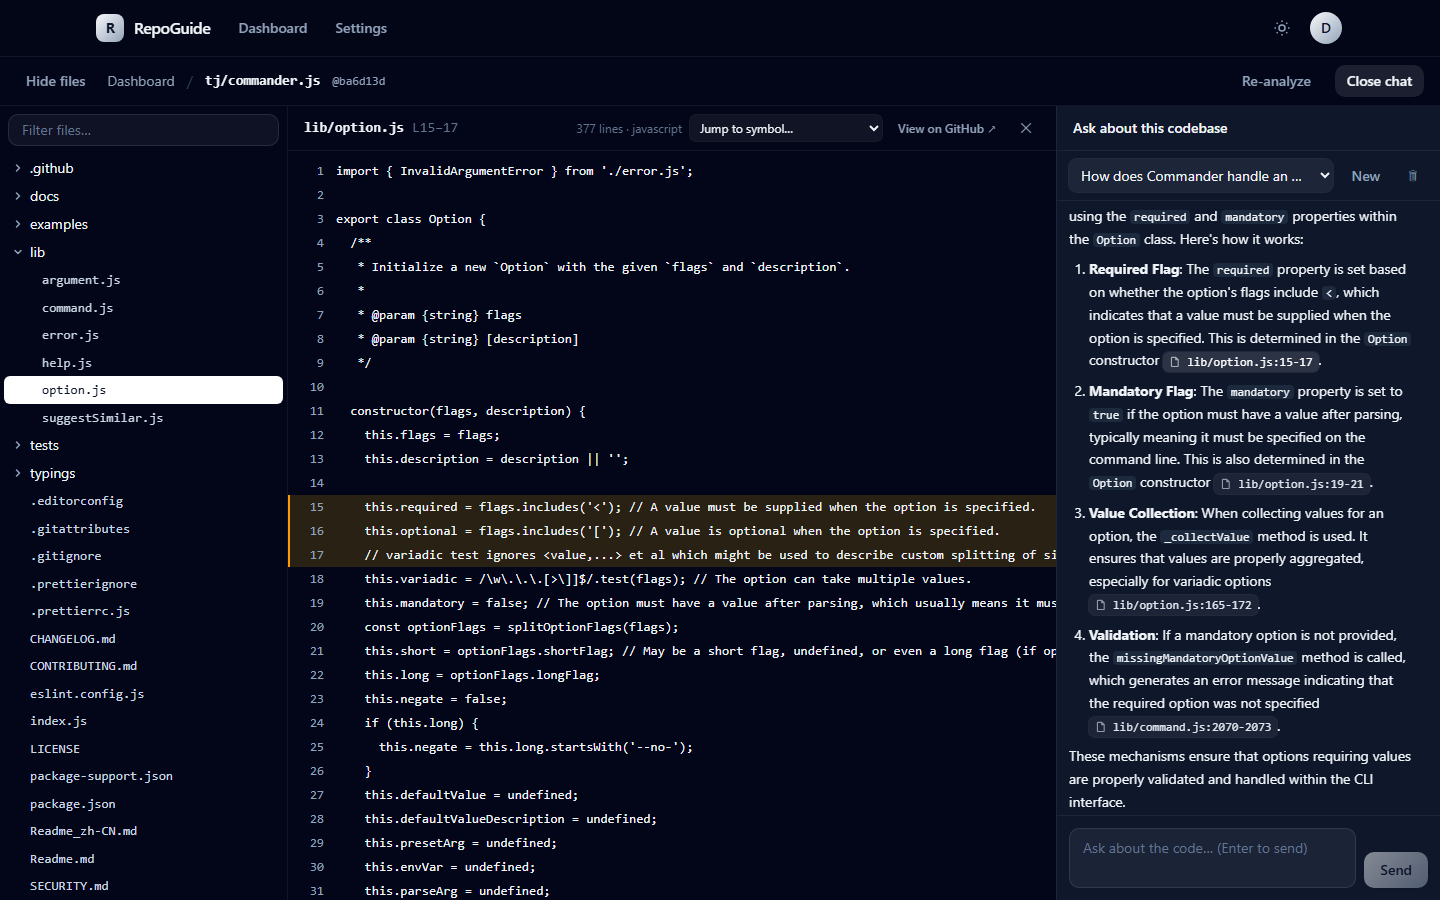
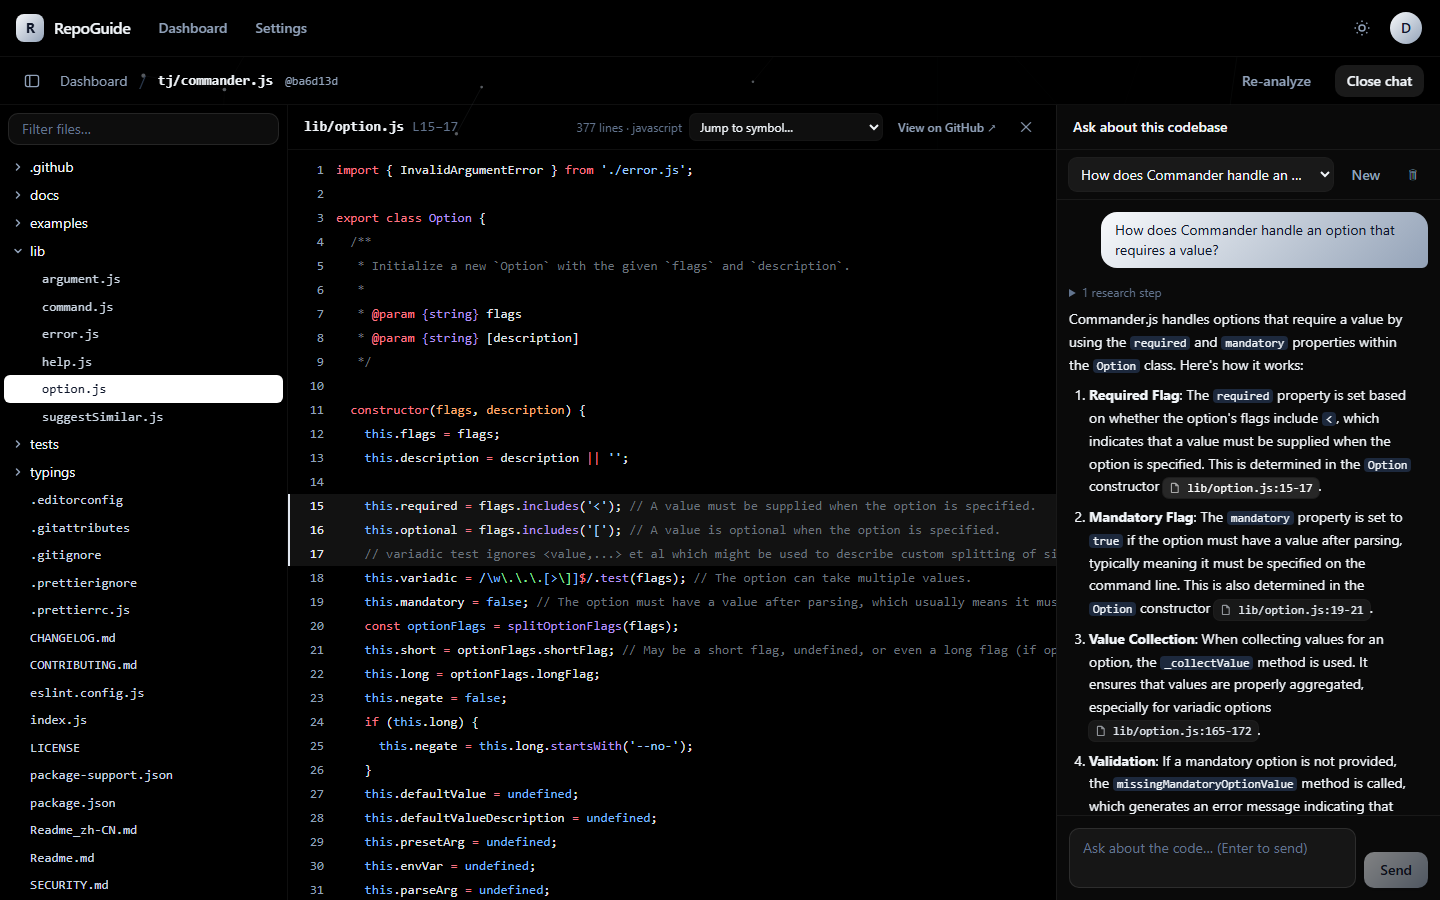
Re-shoot README screenshots in the current design; keep diagrams correctly sized with reduced motion

diff --git a/frontend/e2e/main-flow.spec.ts b/frontend/e2e/main-flow.spec.ts
@@ -1,5 +1,6 @@
 import { expect, test } from "@playwright/test";
 
+import { makeAnalysis } from "../src/test/fixtures";
 import { FakeApi } from "./fakeApi";
 
 test("analyse a repository, explore it, take the tour and ask a question", async ({ page }) => {
@@ -92,4 +93,44 @@ test("the chat is disabled while the model server is offline", async ({ page }) 
   const chat = page.getByRole("complementary", { name: "Chat" });
   await expect(chat.getByText(/The AI model is offline/)).toBeVisible();
   await expect(chat.getByLabel("Ask a question")).toBeDisabled();
+});
+
+test("the architecture diagram keeps its size with reduced motion", async ({ page }) => {
+  // Near-zero transition durations on SVG content once made Mermaid lay diagrams out ~10x
+  // too large, so the boxes shrank to a few pixels (needs a graph with edges and labels).
+  const api = new FakeApi();
+  api.repoStatus = "ready";
+  await api.install(page);
+  const analysis = makeAnalysis();
+  analysis.sections.architecture.data!.mermaid = [
+    "flowchart TD",
+    '    m_test["Test Suite"]',
+    '    m_util["Utility Functions"]',
+    '    m_app(["Application"])',
+    '    m_core["Core"]',
+    '    m_opts["Options"]',
+    '    m_help["Help"]',
+    '    m_test -->|"uses"| m_util',
+    '    m_test -.->|"100 imports"| m_app',
+    "    m_util -.-> m_app",
+    "    m_app -.-> m_core",
+    "    m_core -.-> m_opts",
+    "    m_core -.-> m_help",
+    "    m_app -.-> m_opts",
+    "    classDef entry fill:#e0e7ff,stroke:#4f46e5,color:#1e1b4b",
+    "    class m_app entry",
+  ].join("\n");
+  await page.route("**/api/repos/repo1/analysis", (route) =>
+    route.fulfill({ contentType: "application/json", body: JSON.stringify(analysis) }),
+  );
+  await page.emulateMedia({ reducedMotion: "reduce" });
+
+  await page.goto("/repos/repo1?tab=architecture");
+  const node = page
+    .getByRole("img", { name: /Architecture diagram/ })
+    .locator("svg g.node")
+    .first();
+  await expect(node).toBeVisible();
+  const box = await node.boundingBox();
+  expect(box?.width ?? 0).toBeGreaterThan(80); // ~128 px when laid out correctly, ~36 px when broken
 });

diff --git a/frontend/e2e/screenshots.spec.ts b/frontend/e2e/screenshots.spec.ts
@@ -22,7 +22,9 @@ const OUT = "../docs/screenshots";
 
 test.skip(!SNAPSHOT, "Set SNAPSHOT to a file written by `manage.py export_snapshot`.");
 test.describe.configure({ mode: "serial" });
-test.use({ viewport: { width: 1440, height: 900 }, colorScheme: "light" });
+// Reduced motion: the dot background is drawn once and the cursor trail and card tilt stay off,
+// so clicks made by the spec leave no trace in the images.
+test.use({ viewport: { width: 1440, height: 900 }, colorScheme: "light", reducedMotion: "reduce" });
 
 function load(): Snapshot {
   return JSON.parse(readFileSync(SNAPSHOT ?? "", "utf-8")) as Snapshot;
@@ -76,7 +78,10 @@ async function shoot(page: Page, name: string) {
 
 test("dashboard", async ({ page }) => {
   const snapshot = load();
-  await replay(page, snapshot);
+  // Only fully analysed repositories: the exporting account may also hold unfinished runs.
+  const list = snapshot.responses["/api/repos"] as { results: { analysis_status: string }[] };
+  const done = list.results.filter((repo) => repo.analysis_status === "done");
+  await replay(page, snapshot, { "/api/repos": { ...list, count: done.length, results: done } });
   await page.goto("/dashboard");
   await expect(page.getByRole("region", { name: "Analyzed repositories" })).toContainText(
     "commander",

diff --git a/frontend/src/index.css b/frontend/src/index.css
@@ -260,11 +260,13 @@
   color: var(--dark) !important;
 }
 
-/* Respect the system "reduce motion" setting everywhere. */
+/* Respect the system "reduce motion" setting everywhere except inside SVG: Mermaid measures
+   diagram labels while laying out, and near-zero transition durations there made it lay
+   diagrams out ~10x too large. */
 @media (prefers-reduced-motion: reduce) {
-  *,
-  *::before,
-  *::after {
+  *:not(svg *),
+  *:not(svg *)::before,
+  *:not(svg *)::after {
     animation-duration: 0.01ms !important;
     animation-iteration-count: 1 !important;
     transition-duration: 0.01ms !important;

diff --git a/HANDOVER.md b/HANDOVER.md
@@ -26,7 +26,7 @@ Living document. Update after every meaningful step. A fresh session should be a
 7. In dev the worker and beat restart by themselves when a `.py` file under `backend/` changes (watchfiles; ~10 s). A restart kills a running analysis: re-run it after editing. If a run is interrupted, re-enqueue `analyze_repository` for the same job: it resumes from `Analysis.checkpoint`.
 8. **Before editing any backend `.py` file, check nothing is running** (`IngestionJob.objects.filter(status="running")`): the developer often analyses repos in the browser while you work, and the auto-reload kills that run (happened twice). Frontend-only edits are safe (Vite hot reload).
 9. **Frontend UI:** cursor effects and the dot background are driven by CSS variables (see Key decisions, "Cursor effects"); new cards get them by using `surface` / `surface-hover`. Graphite design tokens and shared utilities live in `frontend/src/index.css` (`btn`, `btn-primary|secondary|ghost`, `field`, `surface`, `surface-hover`, `eyebrow`, `stagger`, `bg-brand`, `text-brand`). Use them instead of raw colours so both themes stay consistent; keep one `btn-primary` per view.
-10. **README screenshots:** export a snapshot (`export_snapshot e2e-check tj/commander.js --out /tmp/s.json`, copy it out with `docker compose cp`), then run `SNAPSHOT=<file> npm run screenshots` in `frontend/`. Chromium on this machine randomly gets `ERR_NETWORK_ACCESS_DENIED`, so run the spec per test (`-g <name>`) with a few retries and look at the images before committing (see Gotchas).
+10. **README screenshots:** export a snapshot (`export_snapshot e2e-check tj/commander.js --out /tmp/s.json`, copy it out with `docker compose cp`), then run `SNAPSHOT=<file> npm run screenshots` in `frontend/`. Chromium on this machine randomly gets `ERR_NETWORK_ACCESS_DENIED`, so run the spec per test (`-g <name>`) with a few retries and look at the images before committing (see Gotchas). The spec runs with reduced motion (dot background drawn once, no cursor trail/tilt from its clicks) and the dashboard shot lists only fully analysed repos.
 
 ## How to run
 
@@ -215,6 +215,7 @@ Later candidates: chat answers in dedicated workers if load grows; an always-on 
 - GitHub's anonymous API limit (60 requests/hour per IP) is shared by every local tool; `seed_demo` accepts `GITHUB_API_TOKEN`, signed-in users use their own token.
 - Playwright clears `frontend/test-results/` at the start of each run; keep snapshot files elsewhere.
 - Since 2026-10-12 Chromium on the developer's machine randomly gets `net::ERR_NETWORK_ACCESS_DENIED` for some `127.0.0.1:4173` requests (also with the old UI and outside the command sandbox; curl is fine), so local E2E/screenshot runs flake: retry per test, and check screenshots really have the styled background (the spec now asserts it). CI is unaffected. The desktop app's built-in browser also refuses `localhost`.
+- **Mermaid and reduced motion:** a global `* { transition-duration: 0.01ms }` (the usual reduced-motion reset) made Mermaid lay diagrams out ~10x too large (boxes a few px wide). The reset in `index.css` therefore skips SVG content (`*:not(svg *)`); the E2E test "the architecture diagram keeps its size with reduced motion" guards it (fails at ~36 px, passes at ~128 px). Found while re-shooting the README screenshots on 2026-10-13.
 - `astral-sh/setup-uv` publishes no floating major tag: pin an exact version (`@v10.2.0`). Check a tag exists with `gh api repos/<owner>/<repo>/git/ref/tags/<tag>` before using it.
 - Don't give `mongodb-atlas-local` a fast healthcheck `start_interval`: its init phase answers `ping` on a temporary server that then restarts, and the backend's migrations crash (seen locally).
 - Stage files explicitly (not `git add -A`): untracked personal notes in the repo root were once committed by mistake.
@@ -223,6 +224,7 @@ Later candidates: chat answers in dedicated workers if load grows; an always-on 
 - Running `docker-compose.prod.yml` locally next to the dev stack: put throwaway values in a file outside the repo and use `ENV_FILE=<file> docker compose --env-file <file> -f docker-compose.prod.yml ...` with `HTTP_PORT=8088` in that file; the smoke test then needs `HTTP_PORT=8088 COMPOSE="docker compose --env-file <file> -f docker-compose.prod.yml"` (and `MSYS_NO_PATHCONV=1` in Git Bash). `down -v` removes its volumes.
 
 ## Progress log
+- 2026-10-13: README screenshots re-shot in the current design (real commander.js output on Qwen3-8B). Fixed a real bug found on the way: with "reduce motion" on, architecture diagrams were laid out ~10x too large; E2E regression test added. Pushed.
 - 2026-10-13: Architecture diagrams: import arrows labelled only for 5+ imports (commander.js 17 labels → 1); the API re-renders stored diagrams on read. 280 backend tests (incl. Mongo), 122 frontend. Pushed to origin.
 - 2026-10-13: Stack pointed at a new Kaggle tunnel. UI/UX pass from a real-app audit (see Key decisions, "UI/UX pass"); cursor trace shortened 60% (260 ms), dimmer, redrawn as one smooth ribbon (no dots at joints). 122 frontend tests, coverage floors met, E2E main flow green locally. README screenshots not re-shot.
 - 2026-10-12: Cursor spotlight on surfaces, smooth 3D tilt on clickable cards, live dot background with a cursor trace (brightened on request), dark base changed to black. 114 frontend tests; verified with Playwright screenshots of the running app. README screenshots still show the slate-950 base (not re-shot).

diff --git a/plan.md b/plan.md
@@ -154,3 +154,8 @@ Status legend: `- [ ]` pending, `- [x]` done. A phase heading gets `✅ Complete
 - [x] Cursor trace: 60% shorter, dimmer, one smooth ribbon
 - [x] Tests (122 frontend, coverage floors met) + E2E main flow
 - [x] Architecture diagram: import arrows labelled only for strong links (5+); stored diagrams re-rendered by the API
+
+## README screenshots (current design) — ✅ Completed (2026-10-13)
+- [x] Fresh snapshot of commander.js (Qwen3-8B) replayed in the real UI; all six images re-shot and checked
+- [x] Screenshot spec: reduced motion (no cursor effects in the shots), dashboard limited to fully analysed repos
+- [x] Fixed: architecture diagrams laid out ~10x too large with reduced motion (CSS reset skips SVG) + E2E regression test
